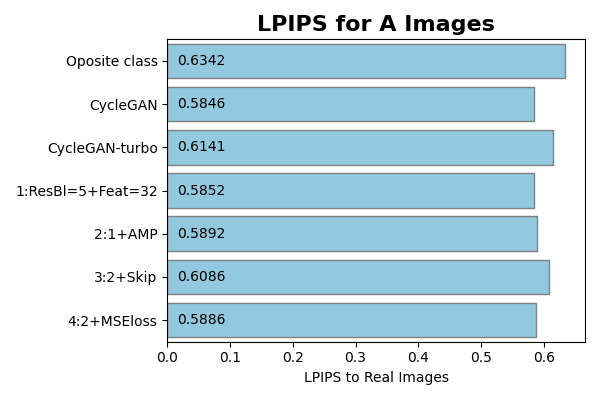
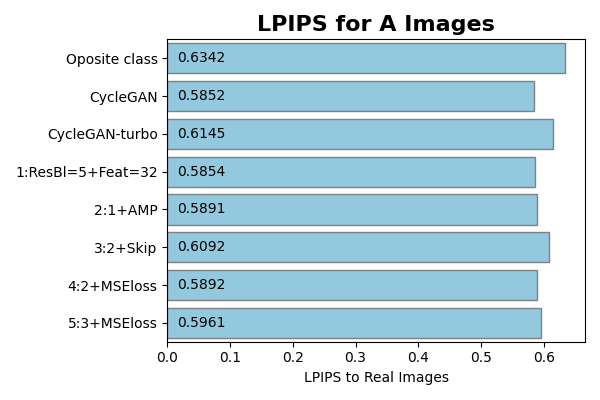
5th test case + legend in maps

Changed region(s): [[0.03, 0.09, 0.96, 0.87], [0.09, 0.12, 0.27, 0.18], [0.12, 0.78, 0.27, 0.84]]

diff --git a/projetos/ReCycleGAN/src/scripts/evaluate_models.py b/projetos/ReCycleGAN/src/scripts/evaluate_models.py
@@ -38,13 +38,21 @@ def plot_2d_map(points_2d, labels, file_path, title=None, label_dist=0.025):
 
     df = pd.DataFrame(points_2d, columns=['x', 'y'])
     df['label'] = labels
-    plt.figure(figsize=(6, 4))
-    scatter = sns.scatterplot(data=df, x='x', y='y', hue='label', palette='viridis', s=100)
+
+    if label_dist > 0:
+        plt.figure(figsize=(6, 4))
+    else:
+        plt.figure(figsize=(6.5, 4))
+
+    scatter = sns.scatterplot(data=df, x='x', y='y', hue='label', palette='Set1', s=100)
     plt.gca().set_aspect('equal', adjustable='box')
 
     if title is not None:
         plt.title(title, fontsize=16, weight='bold')
-    scatter.legend_.remove()
+    if label_dist > 0:
+        scatter.legend_.remove()
+    else:
+        plt.legend(title='Model', bbox_to_anchor=(1.05, 1), loc='upper left')
 
     plt.xlabel('')
     plt.ylabel('')
@@ -66,15 +74,16 @@ def plot_2d_map(points_2d, labels, file_path, title=None, label_dist=0.025):
         x_max_ = (x_min+x_max)/2.0 + y_range / 2.0
         plt.gca().set_xlim(x_min_, x_max_)
 
-    y_min, y_max = plt.gca().get_ylim()
-    y_range = y_max - y_min
-    label_dist *= y_range
-    for i in range(len(df)):
-        plt.text(df['x'][i], df['y'][i] + label_dist, df['label'][i],
-                 horizontalalignment='center',
-                 size='small', #  fontsize=9,
-                 color='black',
-        )
+    if label_dist > 0:
+        y_min, y_max = plt.gca().get_ylim()
+        y_range = y_max - y_min
+        label_dist *= y_range
+        for i in range(len(df)):
+            plt.text(df['x'][i], df['y'][i] + label_dist, df['label'][i],
+                    horizontalalignment='center',
+                    size='small', #  fontsize=9,
+                    color='black',
+            )
 
     plt.tight_layout()
     plt.savefig(file_path)
@@ -253,6 +262,12 @@ def plot_metrics(metrics, labels, title):
             labels,
             file_path=BASE_FOLDER / f'docs/assets/evaluation/{title.lower()}_map_images_{p}.png',
             title=f'{title.upper()} for {p} Images')
+        plot_2d_map(
+            points_2d,
+            labels,
+            file_path=BASE_FOLDER / f'docs/assets/evaluation/{title.lower()}_map_images_{p}_legend.png',
+            title=f'{title.upper()} for {p} Images',
+            label_dist=0)
 
         data = {
             'class': labels[1:],
@@ -327,12 +342,17 @@ def load_metrics(file_name):
 def main():
     """Main function."""
 
-    n_tests = 4
-    recalculate_metrics = False
+    n_tests = 5
+    test_cases_to_build_images = [] # Indexes of test cases to build images
+    recalculate_metrics = False # If False, will load metrics from pkl files
+    n_samples = 5
+    # best_model = 5 # Index of the 'best' model
+
 
     # Build translated images
-    # for i_ in range(1, n_tests+1):
-    #     build_images(i_)
+    for i in test_cases_to_build_images:
+        build_images(i)
+
 
     # Build image data loaders
     model_list = {
@@ -350,6 +370,8 @@ def main():
         data_loaders[k] = build_data_loaders(v)
     labels = list(model_list.keys())
 
+
+    # Calculate FID
     if recalculate_metrics:
         fid_metrics = get_fid(data_loaders)
         save_metrics(fid_metrics, 'fid_metrics.pkl')
@@ -358,6 +380,8 @@ def main():
     print_metric_pairs(fid_metrics)
     plot_metrics(fid_metrics, labels, 'FID')
 
+
+    # Calculate LPIPS
     if recalculate_metrics:
         lpips_metrics = get_lpips(data_loaders)
         save_metrics(lpips_metrics, 'lpips_metrics.pkl')
@@ -368,10 +392,12 @@ def main():
     plot_metrics(lpips_metrics_mean, labels, 'LPIPS')
     plot_histograms(lpips_metrics, labels, 'LPIPS')
 
+
+    # Save samples
     for p in ['A','B']:
         images_csv = BASE_FOLDER / f'data/external/nexet/input_{p}_all_filtered.csv'
         df = pd.read_csv(images_csv)
-        img_list = df['file_name'].sample(5).tolist()
+        img_list = df['file_name'].sample(n_samples).tolist()
         models = model_list.copy()
         models.pop('Real', None)
         models.pop('Oposite class', None)
@@ -379,6 +405,10 @@ def main():
 
     # Calculate LPIPS
     #   Sample images along histogram
+    #       Define the 'best' test case
+    #       Get the mean distance from each model image to the real images
+    #       Order images and sample evenly along the histogram
+    #       Plot histogram of distances with samples images
 
 if __name__ == '__main__':
     main()
